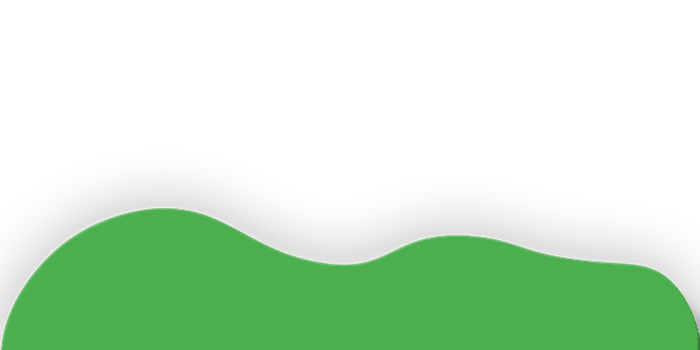
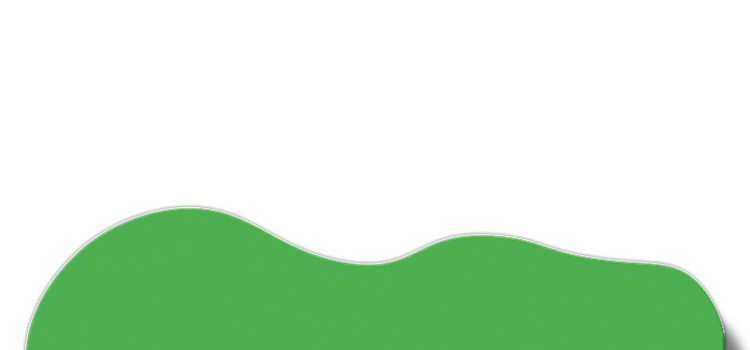
FIx hill placement and add more of them

Changed region(s): [[0.0, 0.5429, 1.0, 1.0]]

diff --git a/src/co/q64/materialbird/game/MaterialBird.java b/src/co/q64/materialbird/game/MaterialBird.java
@@ -1,6 +1,8 @@
 package co.q64.materialbird.game;
 
+import java.io.IOException;
 import java.util.ArrayList;
+import java.util.Arrays;
 import java.util.HashMap;
 import java.util.List;
 import java.util.Map;
@@ -19,9 +21,12 @@ import org.andengine.opengl.texture.atlas.bitmap.BitmapTextureAtlas;
 import org.andengine.opengl.texture.atlas.bitmap.BitmapTextureAtlasTextureRegionFactory;
 import org.andengine.opengl.texture.region.TiledTextureRegion;
 
+import android.graphics.BitmapFactory;
 import android.graphics.Point;
 import android.view.Display;
 import co.q64.materialbird.engine.ModifiedGameActivity;
+import co.q64.materialbird.game.listeners.SceneTouchListener;
+import co.q64.materialbird.game.objects.Bird;
 import co.q64.materialbird.game.sprite.SpriteXMove;
 
 public class MaterialBird extends ModifiedGameActivity {
@@ -29,15 +34,21 @@ public class MaterialBird extends ModifiedGameActivity {
 	public static int CAMERA_WIDTH;
 	public static int CAMERA_HEIGHT;
 
+	public static final int HILL_GFX_NUM = 3;
+
 	private Scene scene;
 	private Random random;
 
 	private TiledTextureRegion playerTextureRegion;
 
 	private Entity bgLayer;
+	private Entity hLayer1;
+	private Entity hLayer2;
 	private Map<String, TiledTextureRegion> bgTextures;
 	private List<SpriteXMove> bg;
 	private SpriteXMove lastHill;
+	private boolean paused = false;
+	private Bird bird;
 
 	public MaterialBird() {
 		random = new Random();
@@ -65,12 +76,22 @@ public class MaterialBird extends ModifiedGameActivity {
 		bitmapBuffer = new BitmapTextureAtlas(this.getTextureManager(), 250, 114);
 		playerTextureRegion = BitmapTextureAtlasTextureRegionFactory.createTiledFromAsset(bitmapBuffer, this, "bird.png", 0, 0, 1, 1);
 		bitmapBuffer.load();
-		bitmapBuffer = new BitmapTextureAtlas(this.getTextureManager(), 500, 300);
-		bgTextures.put("cloud", BitmapTextureAtlasTextureRegionFactory.createTiledFromAsset(bitmapBuffer, this, "cloud.png", 0, 0, 1, 1));
-		bitmapBuffer.load();
-		bitmapBuffer = new BitmapTextureAtlas(this.getTextureManager(), 700, 350);
-		bgTextures.put("hill1", BitmapTextureAtlasTextureRegionFactory.createTiledFromAsset(bitmapBuffer, this, "hill1.png", 0, 0, 1, 1));
-		bitmapBuffer.load();
+		List<String> bgFiles = new ArrayList<String>(Arrays.asList(new String[] { "cloud" }));
+		for (int i = 1; i < MaterialBird.HILL_GFX_NUM + 1; i++) {
+			bgFiles.add("hill" + i);
+		}
+		for (String s : bgFiles) {
+			BitmapFactory.Options options = new BitmapFactory.Options();
+			options.inJustDecodeBounds = true;
+			try {
+				BitmapFactory.decodeStream(this.getApplicationContext().getAssets().open("gfx/" + s + ".png"), null, options);
+			} catch (IOException e) {
+				e.printStackTrace();
+			}
+			bitmapBuffer = new BitmapTextureAtlas(this.getTextureManager(), options.outWidth, options.outHeight);
+			bgTextures.put(s, BitmapTextureAtlasTextureRegionFactory.createTiledFromAsset(bitmapBuffer, this, s + ".png", 0, 0, 1, 1));
+			bitmapBuffer.load();
+		}
 	}
 
 	@Override
@@ -83,6 +104,14 @@ public class MaterialBird extends ModifiedGameActivity {
 		bgLayer = new Entity();
 		bgLayer.setX(0);
 		bgLayer.setY(0);
+		hLayer1 = new Entity();
+		hLayer1.setX(0);
+		hLayer1.setY(0);
+		hLayer2 = new Entity();
+		hLayer2.setX(0);
+		hLayer2.setY(0);
+		hLayer1.attachChild(hLayer2);
+		bgLayer.attachChild(hLayer1);
 
 		float centerX = (CAMERA_WIDTH - this.playerTextureRegion.getWidth()) / 2;
 		float centerY = (CAMERA_HEIGHT - this.playerTextureRegion.getHeight()) / 2;
@@ -92,10 +121,12 @@ public class MaterialBird extends ModifiedGameActivity {
 		scene.attachChild(bgLayer);
 
 		addHill("hill1", 2f);
+		bird = new Bird(this, player);
 
 		scene.attachChild(player);
-
 		scene.registerUpdateHandler(new Tick(this));
+		scene.registerUpdateHandler(bird);
+		scene.setOnSceneTouchListener(new SceneTouchListener(this));
 
 		return scene;
 	}
@@ -110,7 +141,11 @@ public class MaterialBird extends ModifiedGameActivity {
 	public void addHill(String texture, float speed) {
 		TiledTextureRegion tex = bgTextures.get(texture);
 		SpriteXMove sprite = new SpriteXMove(MaterialBird.CAMERA_WIDTH, MaterialBird.CAMERA_HEIGHT - tex.getHeight(), tex.getWidth(), tex.getHeight(), tex, getVertexBufferObjectManager(), speed, texture);
-		bgLayer.attachChild(sprite);
+		if (random.nextBoolean()) {
+			hLayer1.attachChild(sprite);
+		} else {
+			hLayer2.attachChild(sprite);
+		}
 		bg.add(sprite);
 		lastHill = sprite;
 	}
@@ -129,5 +164,13 @@ public class MaterialBird extends ModifiedGameActivity {
 
 	public SpriteXMove getLastHill() {
 		return lastHill;
+	}
+
+	public boolean isPaused() {
+		return paused;
+	}
+
+	public Bird getBird() {
+		return bird;
 	}
 }

diff --git a/src/co/q64/materialbird/game/Tick.java b/src/co/q64/materialbird/game/Tick.java
@@ -11,8 +11,6 @@ import co.q64.materialbird.game.sprite.SpriteXMove;
 
 public class Tick implements IUpdateHandler {
 
-	private static final int HILL_GFX_NUM = 1;
-
 	private MaterialBird game;
 	private float time;
 	private float cleanup = 0;
@@ -50,13 +48,13 @@ public class Tick implements IUpdateHandler {
 			checkHill = checkHill + 0.5f;
 			SpriteXMove sprite = game.getLastHill();
 			if (sprite != null) {
-				if (sprite.getPxLeft() < (sprite.getWidth() / 8.0)) {
+				if (sprite.getPxLeft() < (sprite.getWidth() / 2.0)) {
 					if (r.nextInt(3) == 1) {
-						game.addHill("hill" + (r.nextInt(HILL_GFX_NUM) + 1), 2f);
-					}
-				} else {
-					if (sprite.getPxLeft() < (sprite.getWidth() / 16.0)) {
-						game.addHill("hill" + (r.nextInt(HILL_GFX_NUM) + 1), 2f);
+						game.addHill("hill" + (r.nextInt(MaterialBird.HILL_GFX_NUM) + 1), 2f);
+					} else {
+						if (sprite.getPxLeft() < (sprite.getWidth() / 10.0)) {
+							game.addHill("hill" + (r.nextInt(MaterialBird.HILL_GFX_NUM) + 1), 2f);
+						}
 					}
 				}
 			}

diff --git a/src/co/q64/materialbird/game/sprite/SpriteXMove.java b/src/co/q64/materialbird/game/sprite/SpriteXMove.java
@@ -28,7 +28,7 @@ public class SpriteXMove extends AnimatedSprite {
 	}
 
 	public float getPxLeft() {
-		return getX() + getWidth() - MaterialBird.CAMERA_WIDTH;
+		return getX() + getWidth() - MaterialBird.CAMERA_WIDTH - /*Shadow padding*/ 70;
 	}
 
 	public String getName() {
